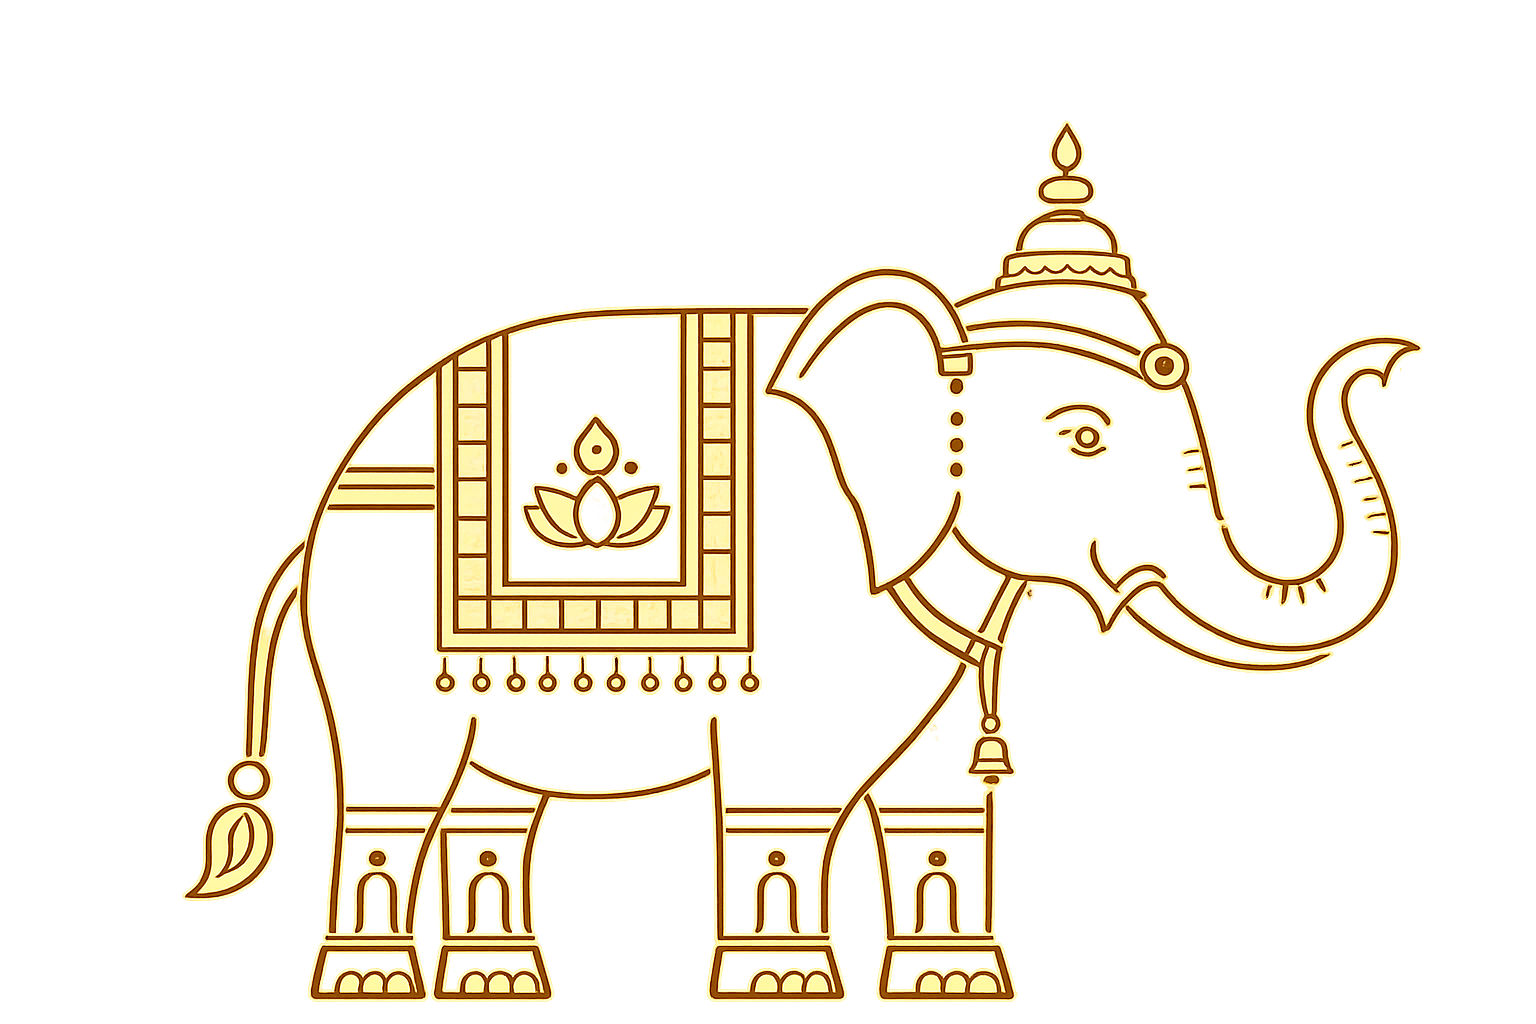
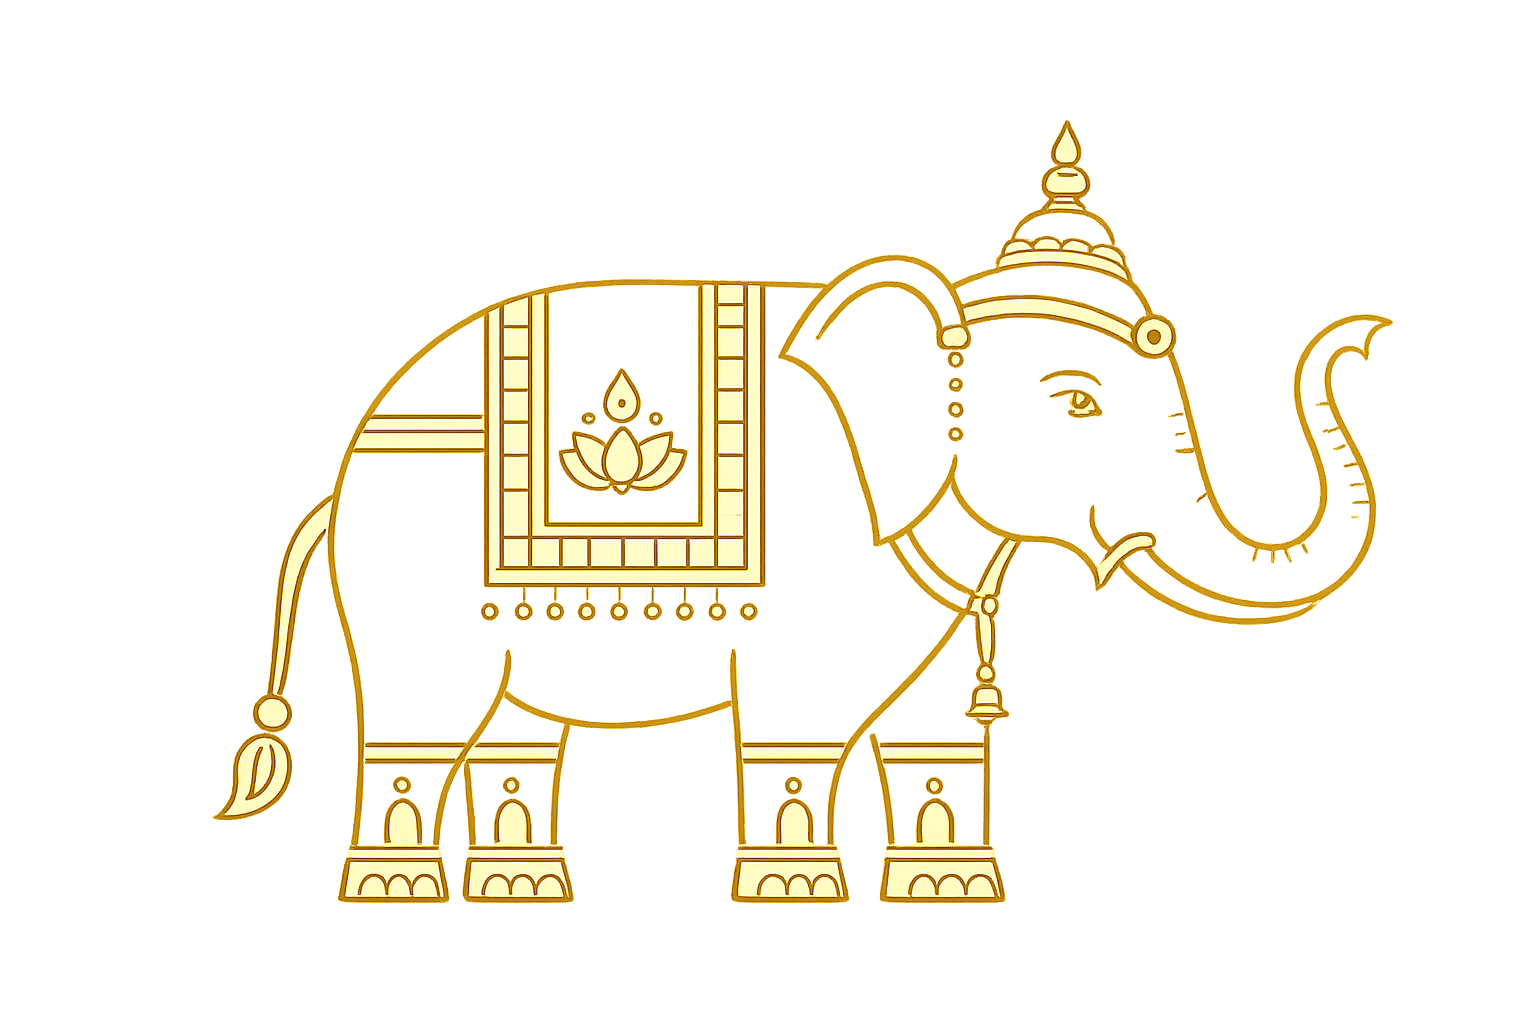
feat: replace background peacock SVGs with Pecock.png image asset

Changed region(s): [[0.125, 0.125, 0.9375, 1.0]]

diff --git a/invitation.html b/invitation.html
@@ -531,8 +531,8 @@
   <img class="bg-elephant-right" src="Elephant Invitation.png" alt="" />
 
   <!-- Background Peacocks -->
-  <img class="bg-peacock-left" src="peacock.svg" alt="" />
-  <img class="bg-peacock-right" src="peacock.svg" alt="" />
+  <img class="bg-peacock-left" src="Pecock.png" alt="" />
+  <img class="bg-peacock-right" src="Pecock.png" alt="" />
 
 
 